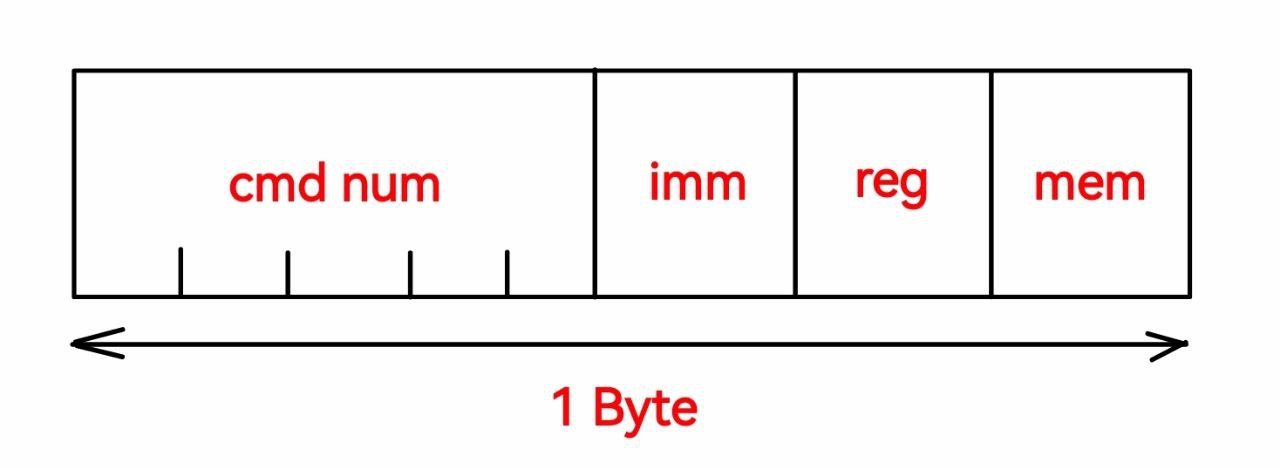
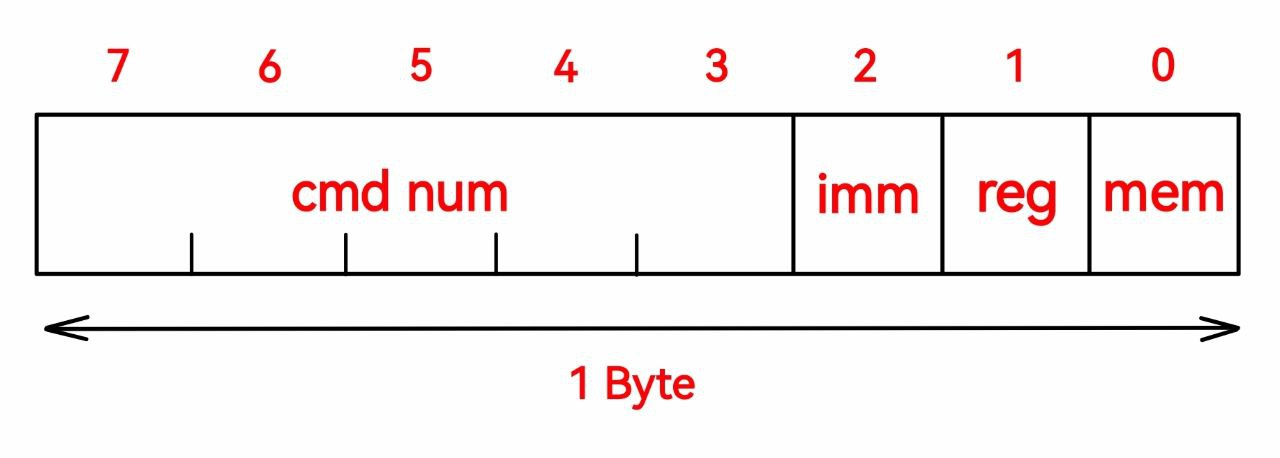
Update readme cmd pics

diff --git a/README.md b/README.md
@@ -15,7 +15,7 @@
 
 Сперва, давайте углубимся в структуру команд нашего процессора. Первый байт, а именно первые 5 бит отвечают за "cmd num", за номер соответствующей команды (0-31), далее следует бит "imm", бит который показывает, оперирует ли команда со значениями, следующий бит - "reg" - будет ли присутствовать регистр, последний бит "mem" показывает, будут ли производится действия с оперативной памяти. Изобразим это схематично: 
 
-<p style="text-align: center"><img src=res/cmd.png width="300px"/></p>
+<p style="text-align: center"><img src=res/cmd.png width="500px"/></p>
 
 После байта команды, следует байт "reg num", отвечающий за номер регистра, если бит "reg" выставлен в 1. Затем следуют 8 байт, значение типа double, если бит "imm" выставлен в 1.
 
